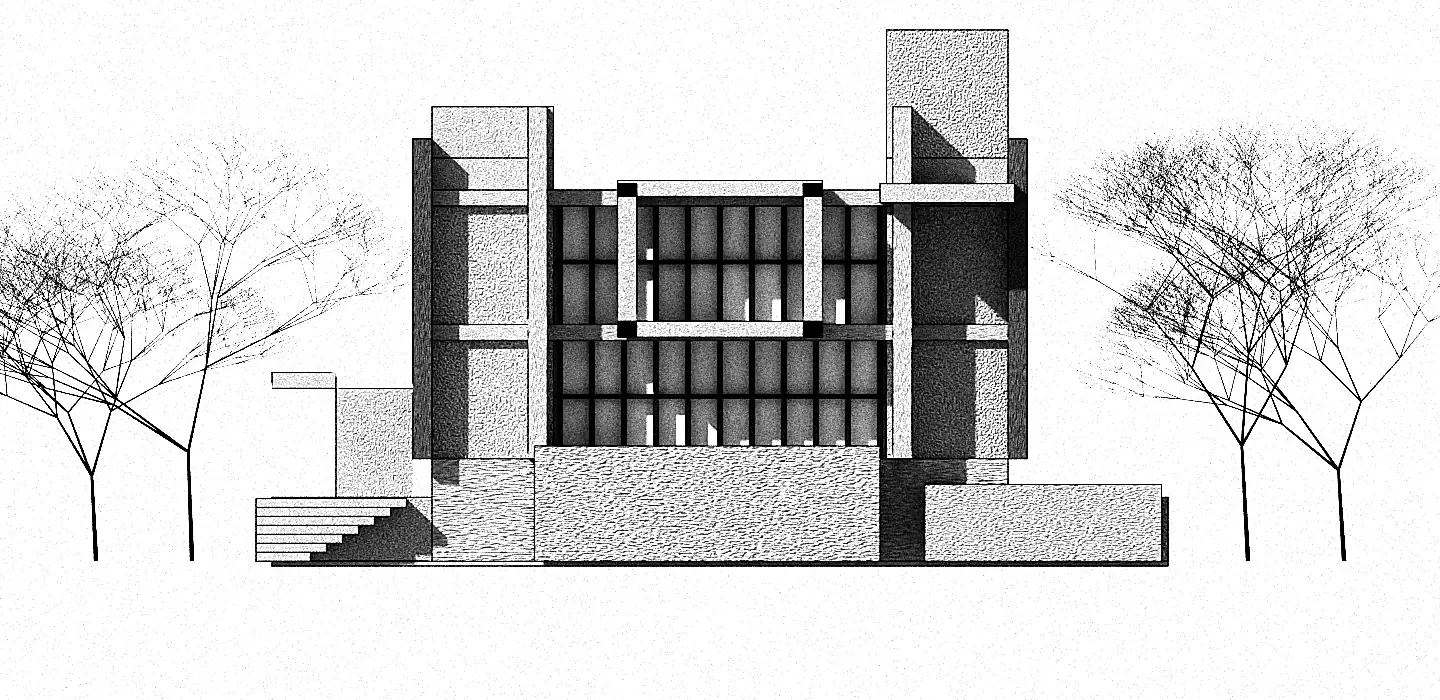
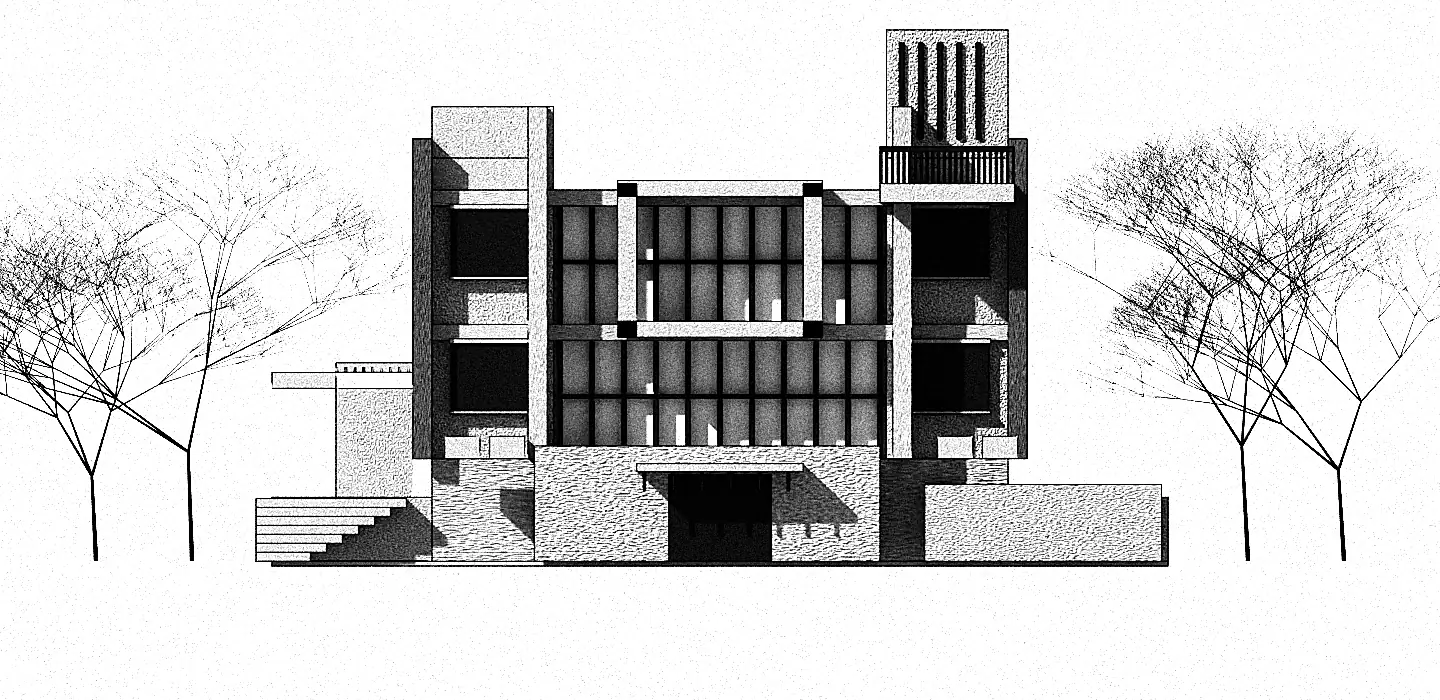
r368: hero v4, richer brutalist detail (openings, railing, canopy, pergola, slits)

Changed region(s): [[0.1562, 0.03, 1.0, 0.81], [0.0, 0.27, 0.1875, 0.48], [0.1875, 0.3, 0.25, 0.36]]

diff --git a/scripts/art/blender/hero.py b/scripts/art/blender/hero.py
@@ -77,6 +77,27 @@ box(-9,-5.2,0.2,5.8,11.6,12.6,concrete); box(5.2,9,0.2,5.8,11.6,12.6,concrete)
 box(-5.8,5.0,-2.2,-0.2,0,3.6,concrete); box(6.4,13.8,-1.5,-0.2,0,2.4,concrete)
 # massing variety: taller right tower block, left setback, deep cantilever
 box(5.2,9,0.2,5.8,12.6,16.6,concrete); box(5.0,9.2,-2.6,0.2,11.2,11.8,concrete); box(-9,-5.2,0.2,5.8,12.6,14.2,concrete); box(-12,-9.6,0.2,3,2.0,5.4,concrete); box(-14,-12,0.2,2.5,5.4,5.9,concrete)
+# --- r368 richness: openings, railings, canopy, pergola, planters, pilotis ---
+for (x0,x1) in ((-8.4,-6.0),(6.0,8.4)):
+    for z0 in (4.2,8.4):
+        box(x0,x1,-0.05,0.25,z0+0.5,z0+2.6,dark)            # deep punched openings in the solid wings
+        box(x0-0.05,x1+0.05,-0.12,0.1,z0+2.6,z0+2.75,concrete)   # lintel
+        box(x0-0.05,x1+0.05,-0.12,0.1,z0+0.4,z0+0.5,concrete)    # sill
+# balcony railing on the right cantilever
+for i in range(24): box(5.0+i*0.18,5.06+i*0.18,-2.6,-2.54,11.8,12.9,dark)
+box(5.0,9.2,-2.62,-2.5,12.8,12.95,dark)
+# entrance recess + canopy
+box(-1.6,1.6,-2.22,-2.0,0,2.7,dark); box(-2.6,2.6,-3.4,-2.0,2.8,3.05,concrete)
+for i in range(6): box(-2.4+i*0.9,-2.32+i*0.9,-3.3,-3.22,2.2,2.8,dark)
+# pergola over the left setback block
+for i in range(9): box(-12+i*0.28,-11.94+i*0.28,0.2,3.0,5.9,6.05,dark)
+box(-12,-9.6,0.2,0.3,5.9,6.2,concrete); box(-12,-9.6,2.9,3.0,5.9,6.2,concrete)
+# planters on the podium
+for x in (-8.6,-7.2,6.8,8.2): box(x,x+1.1,-2.0,-1.2,3.2,3.9,concrete)
+# pilotis under the left stepped block
+for x in (-11.6,-10.4): box(x,x+0.3,0.3,0.6,2.0,2.4,concrete)
+# upper tower slits
+for i in range(5): box(5.6+i*0.6,5.75+i*0.6,0.1,0.3,13.2,16.2,dark)
 # trees (bare, thin branches)
 import bmesh
 from mathutils import Vector, Matrix

diff --git a/docs/redesign/r368/LEDGER.md b/docs/redesign/r368/LEDGER.md
@@ -157,3 +157,4 @@ NEXT: origin/main sync ~9:50pm; remaining gaps 06 layout, hero photo look, no-co
 - r368 NEXT (hero): add Freestyle outlines to hero.py but exclude the tree mesh (select_by_collection) — full-scene freestyle exceeds 100s on 1 CPU
 - r368 hero outlines tried: Freestyle (collection lineset) crashes Blender on 2GB sandbox (no output); ImageMagick edge pass gave worm/halo artefacts and +20% size, both rejected, hero v2 stays. NEXT: render hero in two passes (building / trees) and composite, or lower tree density for Freestyle
 - r368 hero v3: two-pass Blender render (building w/ Freestyle ink outlines + trees), light+dark verified
+- r368 hero v4: punched openings, railings, entrance recess+canopy, pergola, planters, pilotis, tower slits
